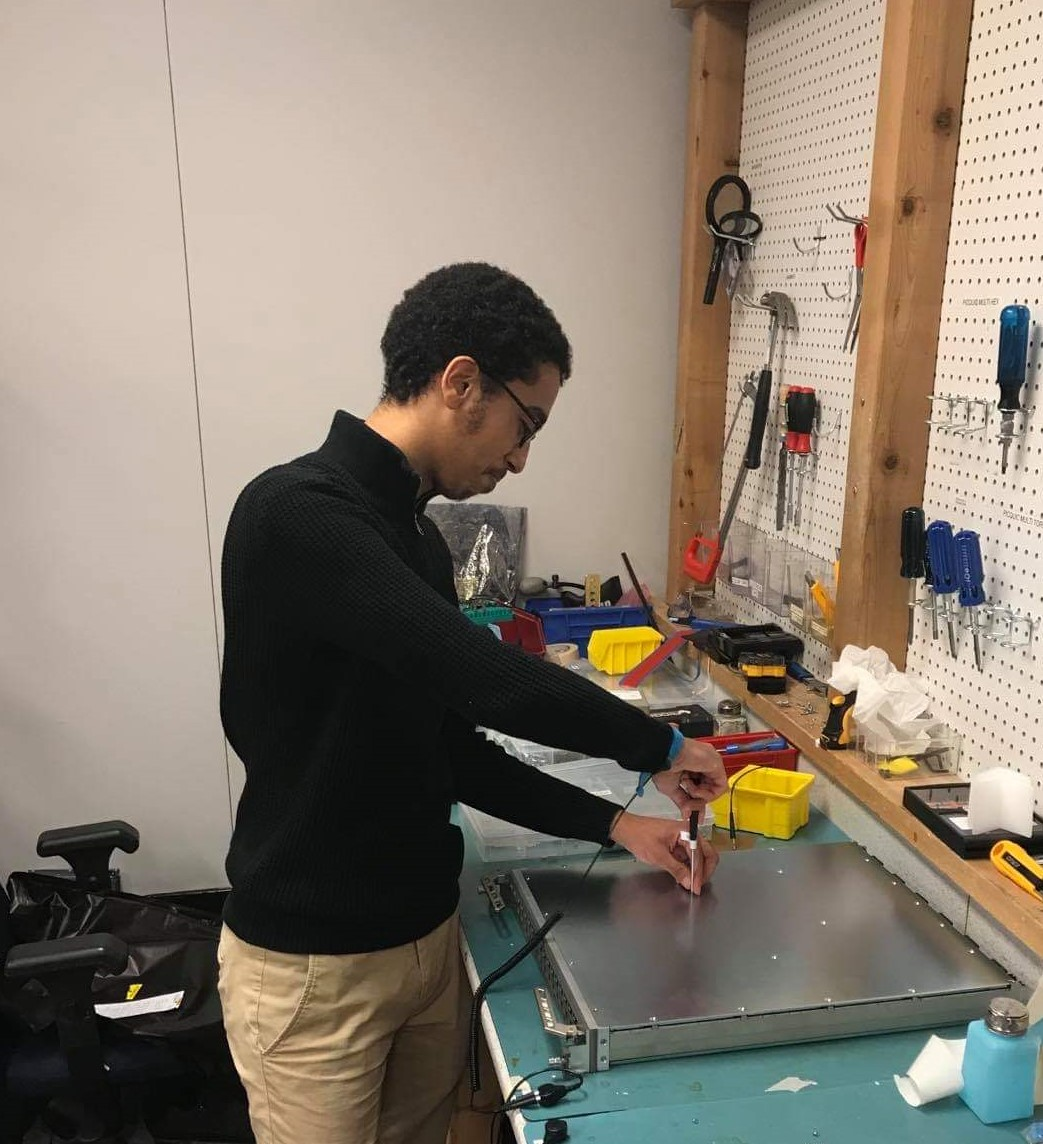
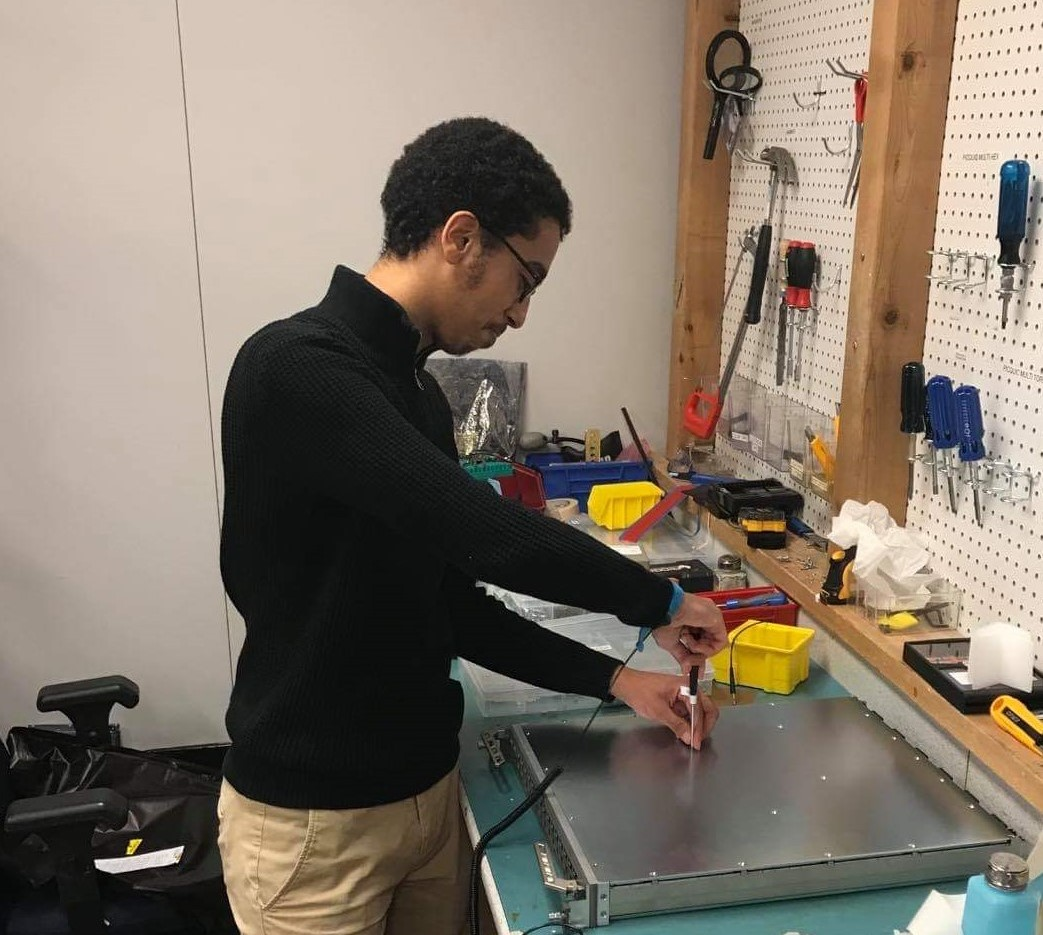
Reduce work term images size

diff --git a/index.html b/index.html
@@ -105,7 +105,7 @@
 							<div class = "item-title">Hardware Support Co-op at <b>Nokia</b> in Ottawa</div>
 							<div class = "dates">Jan 2020 - Apr 2020</div>
 							<div class = "flex-column">
-								<img src="/static/img/work term 2 photo.jpg" class="reduced-width" height="25%"/>
+								<img src="/static/img/work term 2 photo.jpg" class="reduced-width-extra"/>
 								<i>The first step to testing a router board is to remove the cover of the case on the hardware bench</i>
 							</div>
 							<ul class ="bullet-points">
@@ -121,11 +121,11 @@
 							<div class = "item-title">Research and Design Co-op at <b>Memorial University of Newfoundland</b></div>
 							<div class = "dates">Jun 2019 - Aug 2019</div>
 							<div class = "flex-column">
-								<img src="/static/img/work term 1 photo.jpg" class="reduced-width" height="25%"/>
+								<img src="/static/img/work term 1 photo.jpg" class="reduced-width-extra"/>
 								<i>Inspecting the water sprinkling system inside the walk-in refrigerator in the Thermal Lab</i>
 							</div>
 							<ul class ="bullet-points">
-								<li>During my time at Nokia, I was responsible for delivering two research and design projects on my own</li>
+								<li>During my time at Memorial University's Industrial Outreach Office, I was responsible for delivering two research and design projects on my own</li>
 								<li>The first one involved coming up with experiments to qualitatively describe the de-icing properties of a cleaning product. I enjoyed designing the experiments and solving problems on my feet.</li>
 								<li>The second project involved learning and conducting heat transfer analysis on a prototype for design verification. I enjoyed independently applying my calculus knowledge to optimize the model.</li>
 							</ul>
